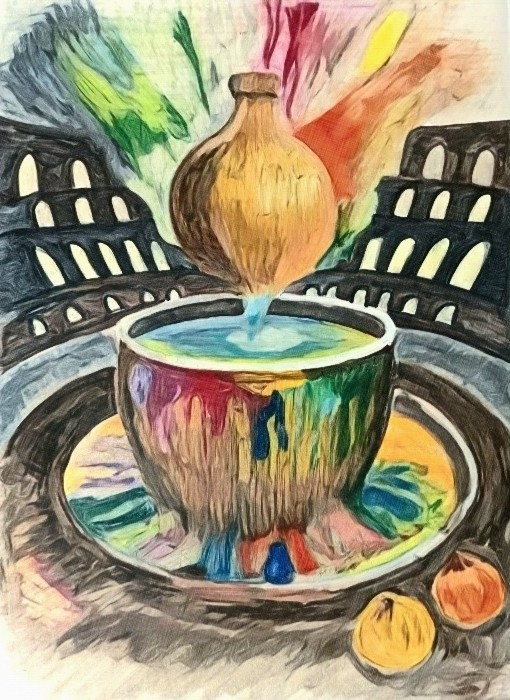
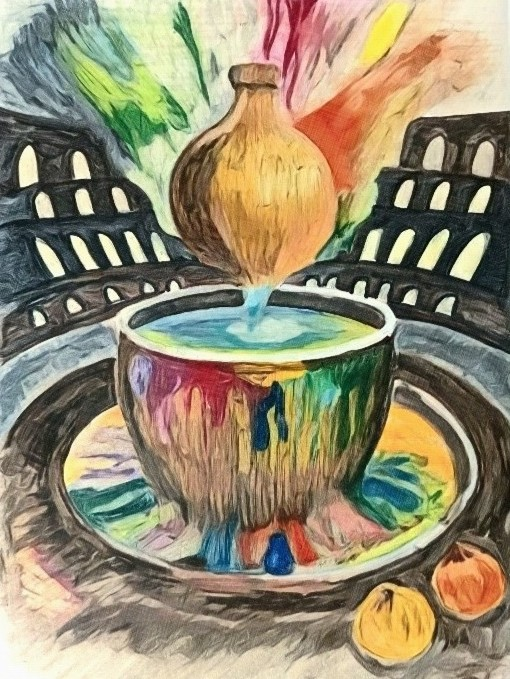
got ridd of overflow hidden

diff --git a/app/assets/stylesheets/application.scss b/app/assets/stylesheets/application.scss
@@ -163,7 +163,7 @@ body {
     }
 
     &--1 {
-      overflow: hidden;
+      //overflow: hidden;
 
       @-moz-document url-prefix() {
         overflow: auto;
@@ -171,8 +171,7 @@ body {
       }
       img {
         width: 100%;
-        max-width: 100%;
-        height: auto;
+        height: 100%;
       }
     }
 

diff --git a/app/assets/stylesheets/components/_page-stylings.scss b/app/assets/stylesheets/components/_page-stylings.scss
@@ -62,7 +62,7 @@
 #page-33, {
   margin: 0;
   padding: 0;
-  overflow: hidden;
+  //overflow: hidden;
   display: flex;
   justify-content: center;
   align-items: center;
